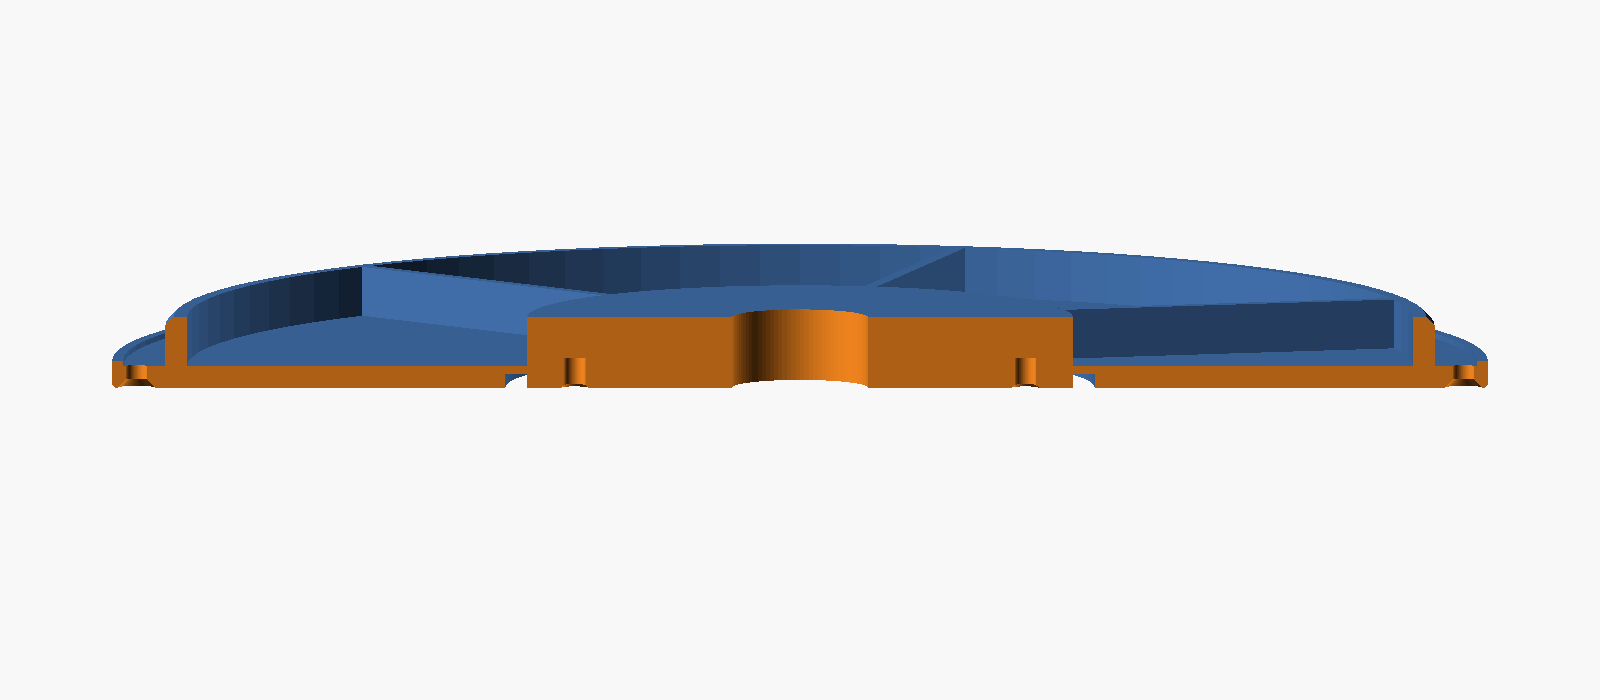
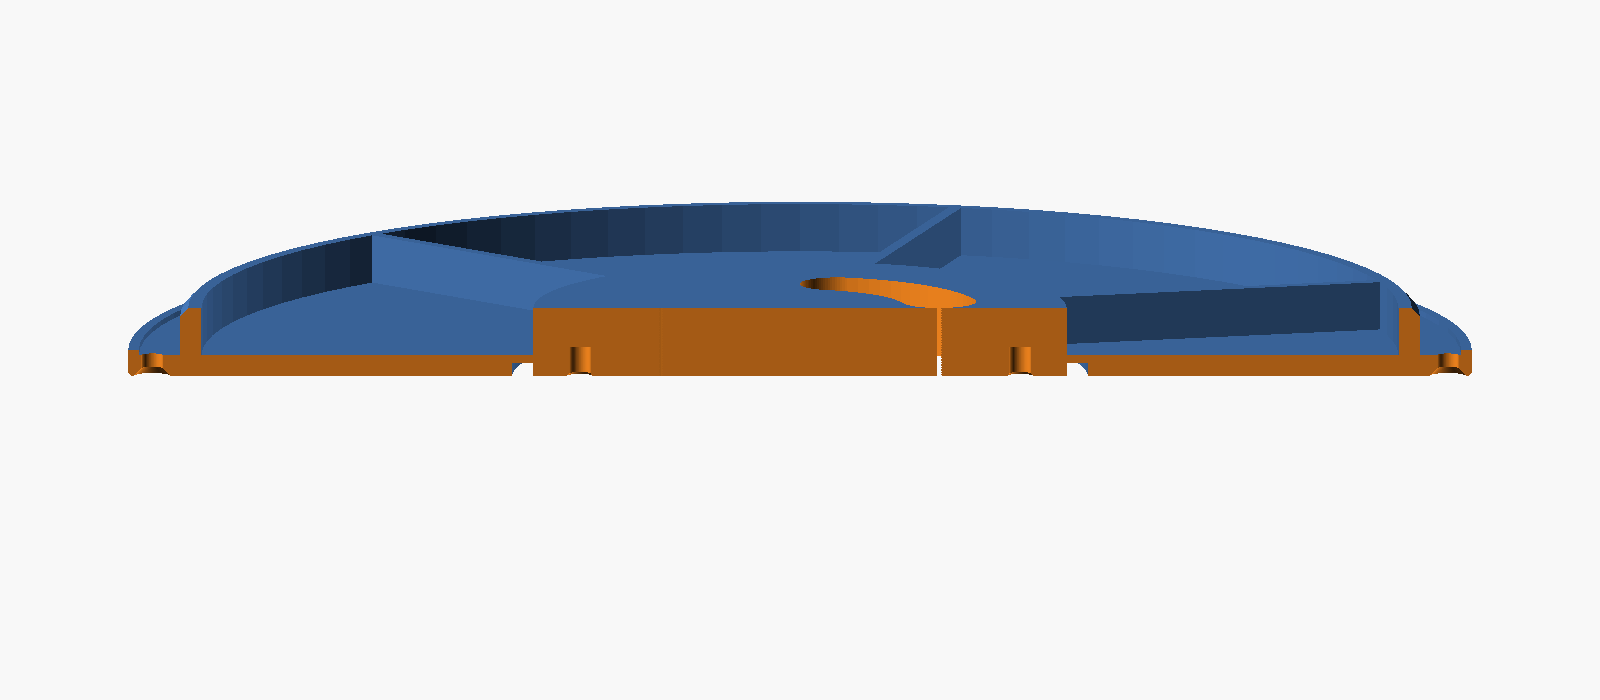
feat(models): RV AP adapter — offset arc-slot cable pass-throughs, center hole off (st-so4)
The AP bracket has a raised solid center hub (pinhole only) — its
wiring openings are large cutouts OFFSET from center inside the bolt
circle, so the old dead-center 25mm cable hole lined up with solid
metal. Replace it with a parametric ring of arc (kidney) slots through
the AP boss: count (default 2), centerline circle dia (default 54mm),
arc length (60deg), radial width (14mm), and pattern rotation (45deg,
between the insert axes) all tunable in the web UI. The slot radius is
clamped clear of the insert holes (>=2mm), the rib roots (>=1mm), and
the axis, so no slider combo cuts a rib or an insert boss.

cable_hole_dia stays as a parameter but defaults to 0 (off) since the
bracket hub is solid behind it.

Slots are full-height vertical-walled cuts open at both faces — no new
bridges, still room-face-down zero-support, still one watertight shell.

Invariants: new cable_slots checks assert each slot is open through
the full plate height at its clamped position, keeps >=2mm of meat to
the insert holes, and leaves the boss solid between slots. Re-rendered
iso/top/section (slots visible); catalog blurb updated (center
pass-through -> offset arc slots).

Squashes witness WIP 80f1be5 continuation (chrome session died mid-work).

🤖 Generated with [Claude Code](https://claude.com/claude-code)

Claude-Session: https://claude.ai/code/session_01LbXyCMc2aR9Lf81amdTp3i

Changed region(s): [[0.0625, 0.27, 0.9375, 0.57]]

diff --git a/lib/models/catalog.ts b/lib/models/catalog.ts
@@ -97,7 +97,7 @@ export const CATALOG: Record<string, CatalogEntry> = {
   rv_ceiling_ap_adapter_235mm: {
     categoryId: "household",
     blurb:
-      "Adapter plate that covers a 235mm (9.25\") RV ceiling speaker cutout and mounts a WiFi access point in its place. Self-centering recessed cup nests up into the hole, 252mm one-piece flange screws to the ceiling with 6 countersunk #6 screws, and a 100mm boss carries 4× M3 heat-set inserts on an 82.55mm bolt circle for the AP bracket, plus a central Ethernet pass-through. Prints room-face-down with zero supports.",
+      "Adapter plate that covers a 235mm (9.25\") RV ceiling speaker cutout and mounts a WiFi access point in its place. Self-centering recessed cup nests up into the hole, 252mm one-piece flange screws to the ceiling with 6 countersunk #6 screws, and a 100mm boss carries 4× M3 heat-set inserts on an 82.55mm bolt circle for the AP bracket, plus off-center arc-slot cable pass-throughs that line up with the bracket's offset wiring openings (its center hub is solid). Prints room-face-down with zero supports.",
   },
   blutech_water_softener_foot: {
     categoryId: "household",

diff --git a/models/rv_ceiling_ap_adapter_235mm.invariants.py b/models/rv_ceiling_ap_adapter_235mm.invariants.py
@@ -159,6 +159,63 @@ def check(ctx):
                 "Ethernet pass-through is missing",
             ))
 
+    # --- offset cable slots (st-so4): each slot open through the full
+    # plate height, outer edge >= ~2mm clear of the insert holes, and
+    # the boss solid between slots when the spacing leaves a gap. The
+    # clamp math mirrors slot_r in the .scad. ---
+    if slot_count > 0:
+        rib_in_r = boss_r - 5
+        slot_out_max_r = min(
+            bc_r - insert_hole_dia / 2 - 2,
+            (rib_in_r - 1) if rib_count > 0 else boss_r - 1.5,
+        )
+        slot_r = max(slot_w / 2 + 0.5,
+                     min(slot_bc_dia / 2, slot_out_max_r - slot_w / 2))
+
+        outer_edge = slot_r + slot_w / 2
+        insert_clear = (bc_r - insert_hole_dia / 2) - outer_edge
+        if insert_clear < 2.0 - 0.05:
+            failures.append(Failure(
+                "cable_slots",
+                f"slot outer edge at r={outer_edge:.2f}mm leaves only "
+                f"{insert_clear:.2f}mm to the insert holes on the "
+                f"{bc_dia}mm bolt circle — need >= 2mm of meat",
+            ))
+
+        probe_zs = (0.5, total_h / 2, total_h - 0.5)
+        for i in range(slot_count):
+            center = slot_rot + i * 360.0 / slot_count
+            pts = [_polar(slot_r, center + off, z)
+                   for off in (-slot_arc / 2, 0, slot_arc / 2)
+                   for z in probe_zs]
+            if mesh.contains(pts).any():
+                failures.append(Failure(
+                    "cable_slots",
+                    f"cable slot {i} (center {center:.0f}deg, "
+                    f"r={slot_r:.2f}mm) is not open through the plate — "
+                    f"the offset cable pass-through is blocked",
+                ))
+
+        if slot_count >= 2:
+            # full angular half-span of a slot = half the arc between
+            # end-cap centers + the end cap itself
+            cap_half = np.degrees(np.arcsin(min(1.0, (slot_w / 2) / slot_r)))
+            gap = 180.0 / slot_count - (slot_arc / 2 + cap_half)
+            if gap > 3.0:
+                mid_pts = [
+                    _polar(slot_r,
+                           slot_rot + (i + 0.5) * 360.0 / slot_count,
+                           total_h / 2)
+                    for i in range(slot_count)
+                ]
+                if not mesh.contains(mid_pts).all():
+                    failures.append(Failure(
+                        "cable_slots",
+                        f"boss is open between cable slots at "
+                        f"r={slot_r:.2f}mm — slots must stay discrete "
+                        f"cutouts, not merge into a moat",
+                    ))
+
     # --- zero-support orientation: coplanar room face on the bed ---
     contact = verts[verts[:, 2] < _CONTACT_EPS_MM]
     if len(contact) == 0: